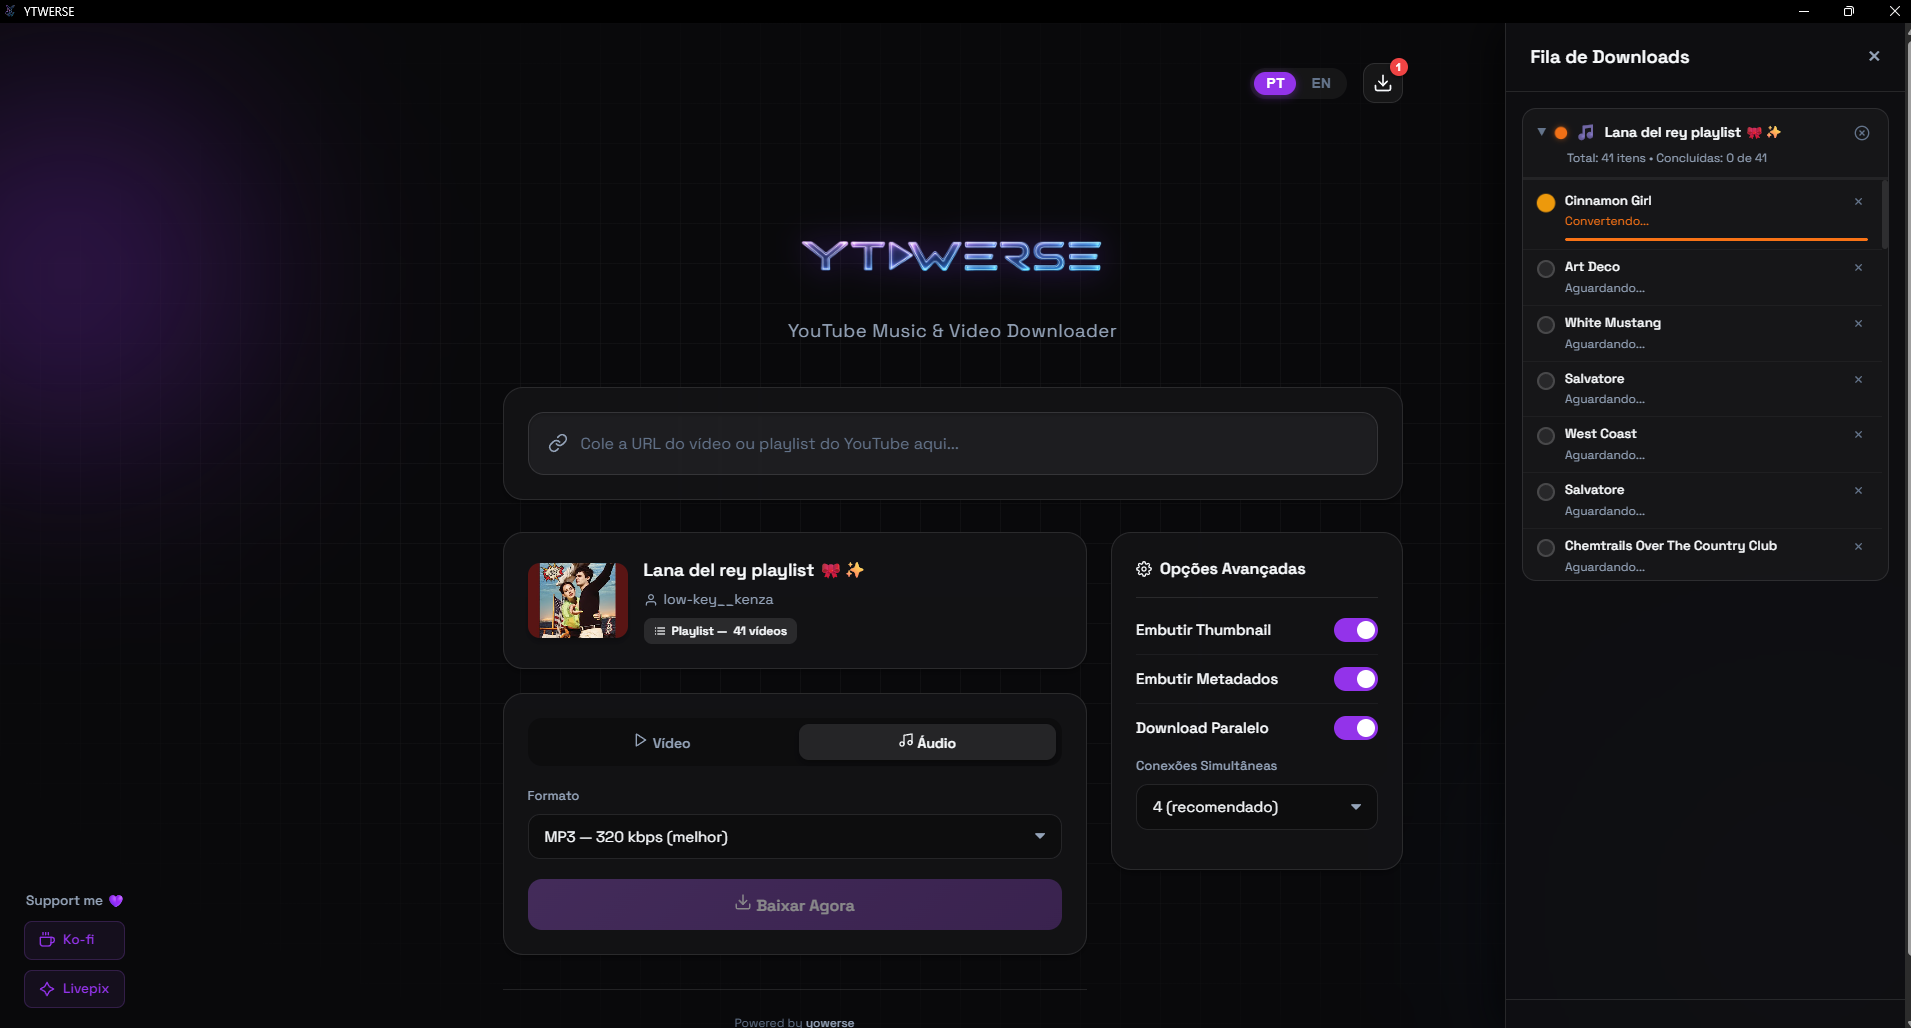
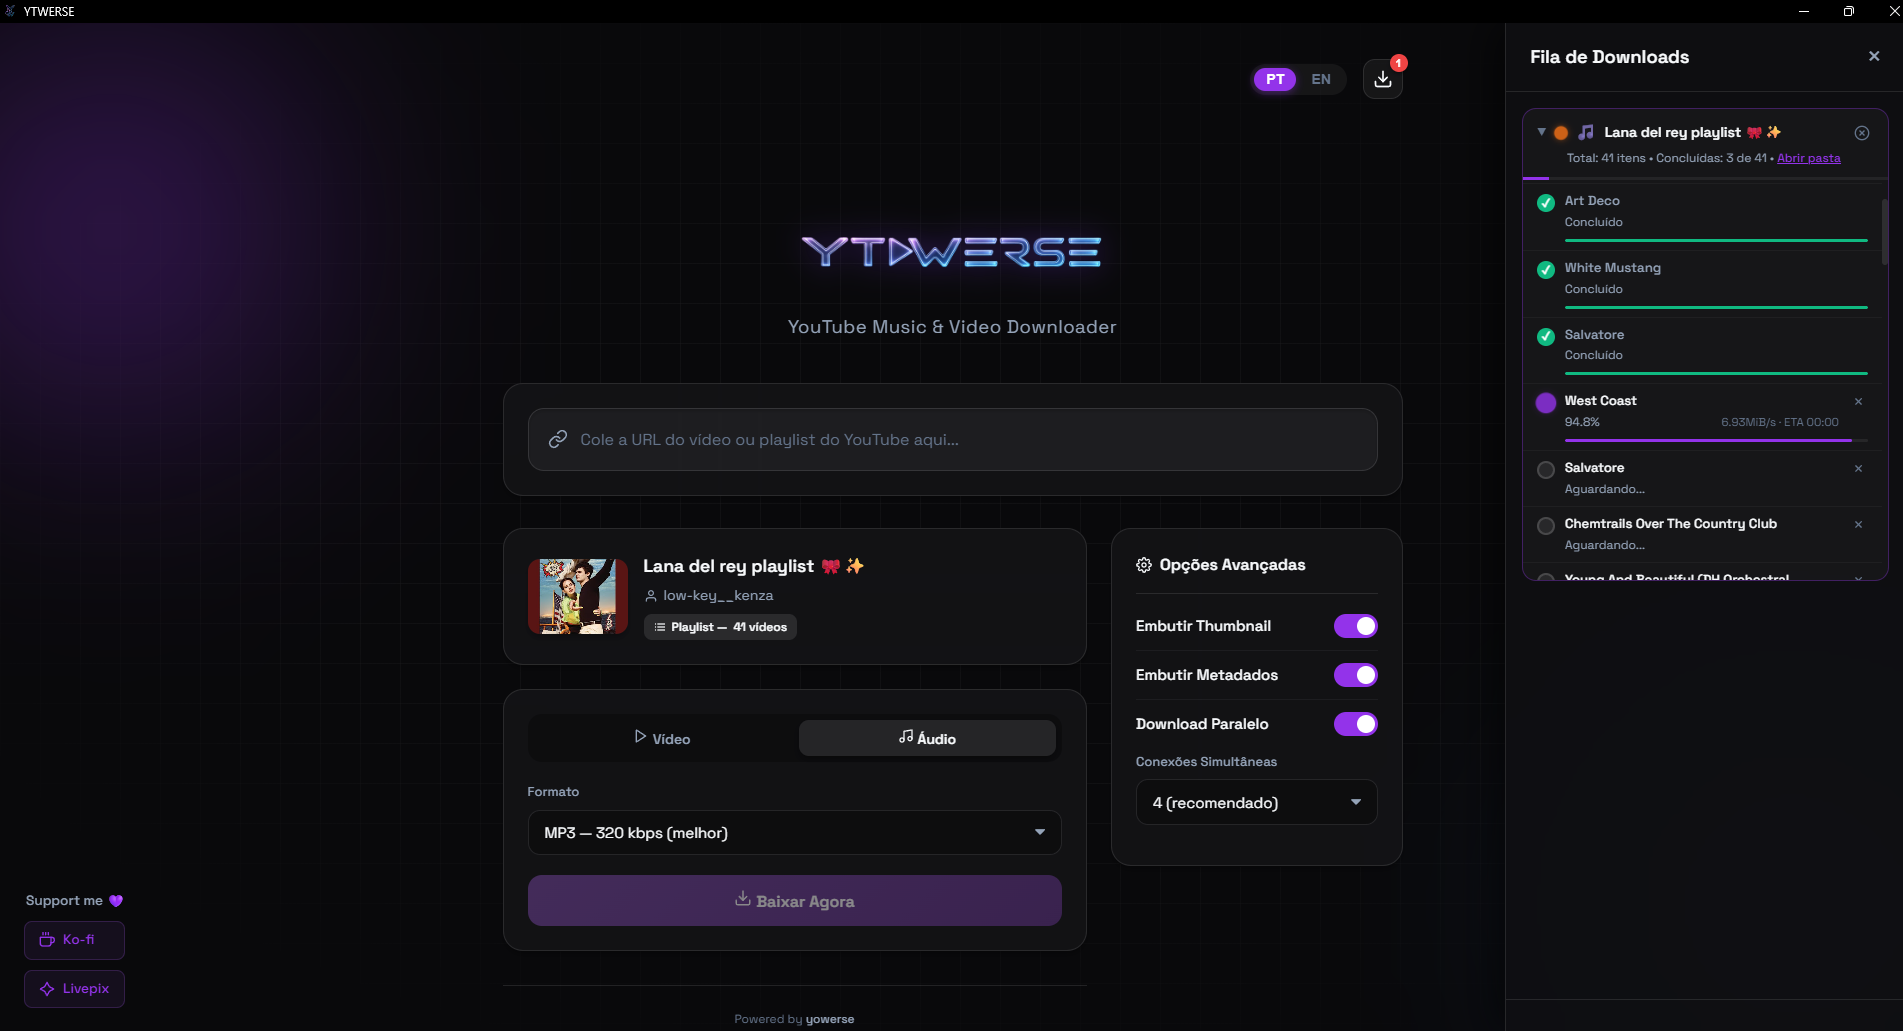
screenshots preview

diff --git a/README.md b/README.md
@@ -17,14 +17,16 @@
     <a href="#-visão-geral">Português</a> • 
     <a href="#-overview">English</a>
   </p>
+</div>
 
-  <br>
+<br>
 
-  <div>
-    <img src="assets/preview-01.png" alt="Preview 1" width="32%">
-    <img src="assets/preview-02.png" alt="Preview 2" width="32%">
-    <img src="assets/preview-03.png" alt="Preview 3" width="32%">
-  </div>
+<div align="center">
+  <img src="assets/preview-01.png" width="800" alt="Preview 1">
+  <br><br>
+  <img src="assets/preview-02.png" width="800" alt="Preview 2">
+  <br><br>
+  <img src="assets/preview-03.png" width="800" alt="Preview 3">
 </div>
 
 ---